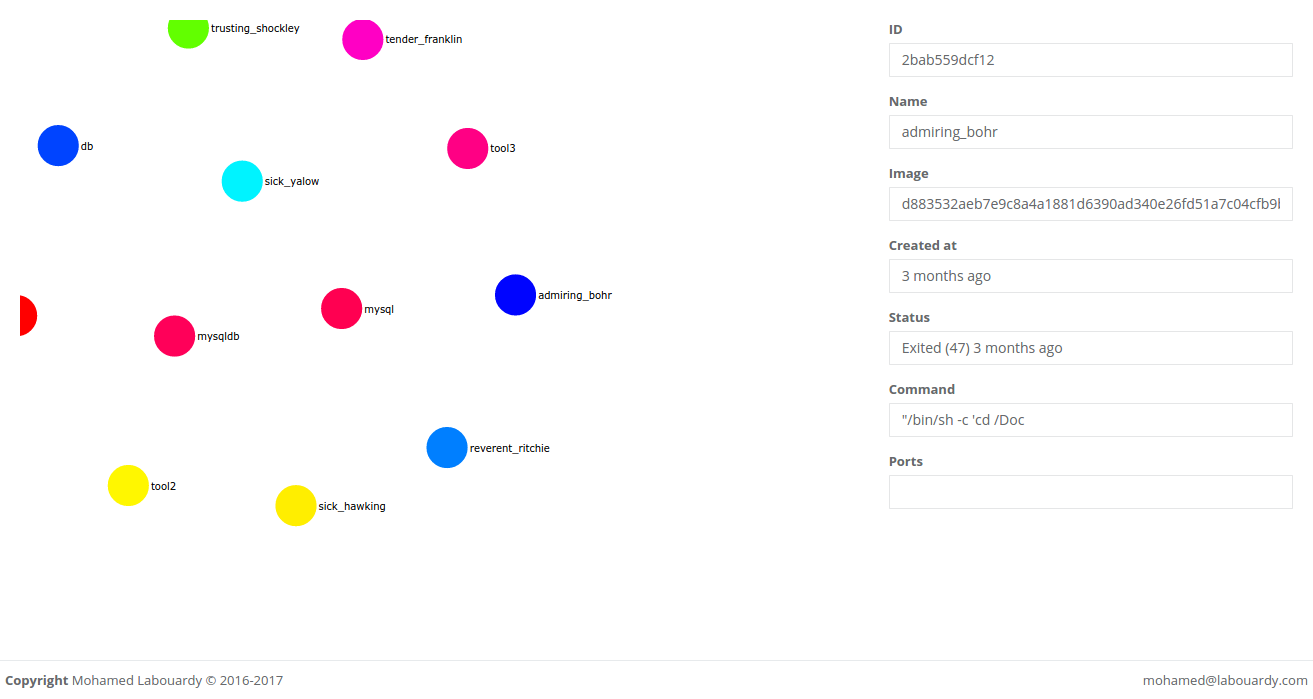
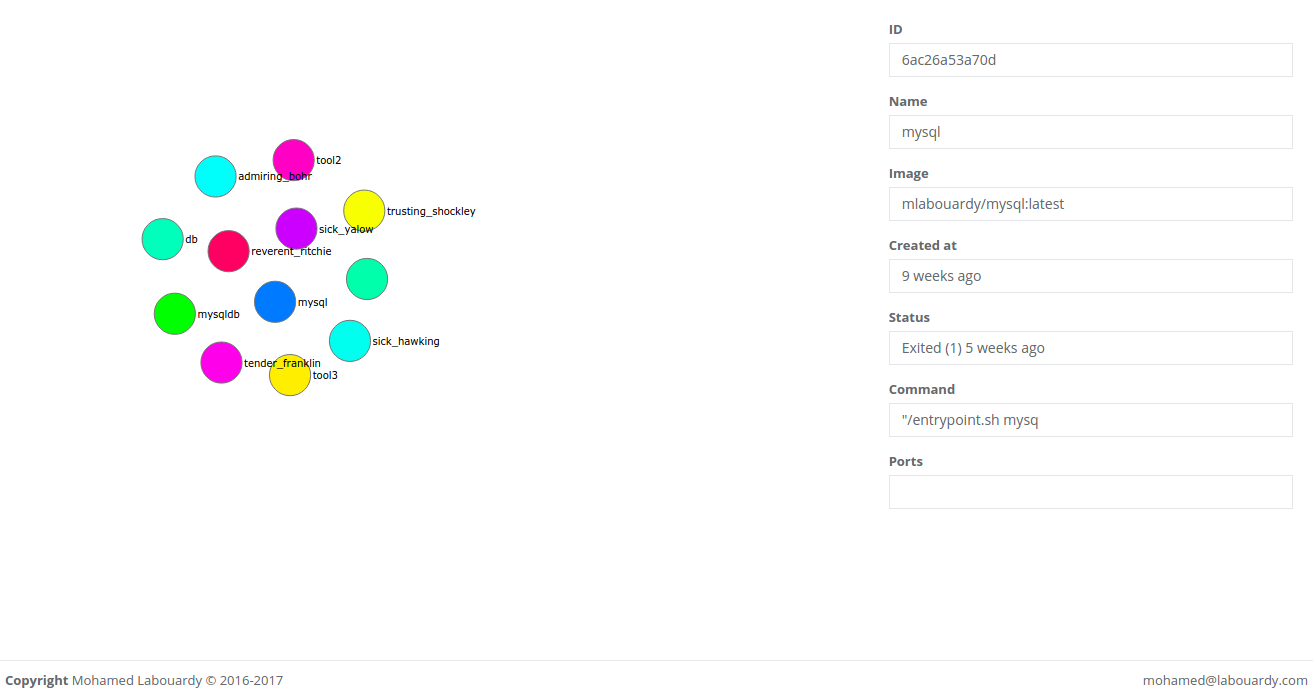
fix graph gravity and charge

diff --git a/public/scripts/app.js b/public/scripts/app.js
@@ -1,113 +1,108 @@
 angular.module('myApp',[])
-  .controller('MainCtrl',function($scope, Docker){
-    $scope.container={};
-    $scope.containers=[];
+.controller('MainCtrl',function($scope, Docker){
+  $scope.container={};
+  $scope.containers=[];
 
-    Docker.exited().then(function(containers){
-      containers=containers.data;
-      var arr = [];
-      for (var prop in containers) {
-          arr.push(containers[prop]);
-      }
-      $scope.data={
-        nodes:arr,
-        links:[]
-      };
+  Docker.exited().then(function(containers){
+    containers=containers.data;
+    var arr = [];
+    for (var prop in containers) {
+      arr.push(containers[prop]);
+    }
+    $scope.data={
+      nodes:arr,
+      links:[]
+    };
 
-      var graph=$scope.data;
+    var graph=$scope.data;
 
-      var width = 500;
-          height = 500;
+    var width = 500;
+    height = 500;
 
-      var force = d3.layout.force()
-          .charge( function(d) { return -35 * Math.sqrt(1695)} )
-          .linkDistance(10)
-          .gravity(0.15)
-          .size([width, height]);
+    var force = d3.layout.force()
+    .charge(-180)
+    .linkDistance(30)
+    .size([width, height]);
 
-      var svg = d3.select("#canvas").append("svg")
-          .attr("width", "100%")
-          .attr("height", "100%");
+    var svg = d3.select("#canvas").append("svg")
+    .attr("width", "100%")
+    .attr("height", "100%");
 
-          var main = svg.append("g")
-           .attr("class", "graph");
+    var main = svg.append("g")
+    .attr("class", "graph");
 
-          force
-              .nodes(graph.nodes)
-              .links(graph.links)
-              .start();
+    force
+    .nodes(graph.nodes)
+    .links(graph.links)
+    .start();
 
-          var link = main.selectAll(".link")
-              .data(graph.links)
-              .enter().append("line")
-              .attr("class", "link")
-              .style("stroke-width", function(d) { return 2 * d.strength; });
+    var link = main.selectAll(".link")
+    .data(graph.links)
+    .enter().append("line")
+    .attr("class", "link")
+    .style("stroke-width", function(d) { return 2 * d.strength; });
 
-          var node = main.selectAll(".node_circle")
-              .data(graph.nodes)
-            .enter().append("circle")
-              .attr("class", "node_circle")
-              .attr("r", function(d) { return 0.5 * Math.sqrt(1695); })
-              .style("fill", function(d){ return "hsl(" + Math.random() * 360 + ",100%,50%)"; } )
-              .on("mouseover", function(d) { mouseover_node(d); })
-              .on("mouseout", function(d) { mouseout_node(d) })
-              .call(force.drag);
+    var node = main.selectAll(".node_circle")
+    .data(graph.nodes)
+    .enter().append("circle")
+    .attr("class", "node_circle")
+    .attr("r", function(d) { return 0.5 * Math.sqrt(1695); })
+    .style("fill", function(d){ return "hsl(" + Math.random() * 360 + ",100%,50%)"; } )
+    .on("mouseover", function(d) { mouseover_node(d); })
+    .on("mouseout", function(d) { mouseout_node(d) })
+    .call(force.drag);
 
-          var label = main.selectAll(".node_label")
-              .data(graph.nodes)
-            .enter().append("text")
-              .attr("class", "node_label")
-              .attr("dx", function(d) { return 2 + 0.5 * Math.sqrt(1695); })
-              .attr("dy", ".4em")
-              .attr("font-family", "Verdana")
-              .attr("font-size", 10)
-              .style("fill", "#000000")
-              .text(function(d) { return d.names; });
+    var label = main.selectAll(".node_label")
+    .data(graph.nodes)
+    .enter().append("text")
+    .attr("class", "node_label")
+    .attr("dx", function(d) { return 2 + 0.5 * Math.sqrt(1695); })
+    .attr("dy", ".4em")
+    .attr("font-family", "Verdana")
+    .attr("font-size", 10)
+    .style("fill", "#000000")
+    .text(function(d) { return d.names; });
 
-          force.on("tick", function() {
-            link.attr("x1", function(d) { return d.source.x; })
-                .attr("y1", function(d) { return d.source.y; })
-                .attr("x2", function(d) { return d.target.x; })
-                .attr("y2", function(d) { return d.target.y; });
+    force.on("tick", function() {
+      link.attr("x1", function(d) { return d.source.x; })
+      .attr("y1", function(d) { return d.source.y; })
+      .attr("x2", function(d) { return d.target.x; })
+      .attr("y2", function(d) { return d.target.y; });
 
-            // node
-            //   .attr("transform", function(d) { return "translate(" + d.x + "," + d.y + ")"; });
-            node.attr("cx", function(d) { return d.x; })
-                .attr("cy", function(d) { return d.y; });
+      node.attr("cx", function(d) { return d.x; })
+      .attr("cy", function(d) { return d.y; });
 
-            label.attr("x", function(d) { return d.x; })
-                .attr("y", function(d) { return d.y; });
-          });
-
-          var mouseover_node = function(z){
-            $scope.$apply(function(){
-              $scope.container={
-                id:z.id,
-                name:z.names,
-                created_at:z.created,
-                ports:z.ports,
-                image:z.image,
-                command:z.command,
-                status:z.status
-              }
-            })
-
-            console.log(z);
-          };
-
-          var mouseout_node = function(z){
-            link
-              .style("stroke-opacity", 0.2);
-
-            node
-              .style("stroke-width", 1)
-
-            label
-              .attr("font-size", 10)
-              .style("fill-opacity", 1)
-
-          };
+      label.attr("x", function(d) { return d.x; })
+      .attr("y", function(d) { return d.y; });
     });
 
+    var mouseover_node = function(z){
+      $scope.$apply(function(){
+        $scope.container={
+          id:z.id,
+          name:z.names,
+          created_at:z.created,
+          ports:z.ports,
+          image:z.image,
+          command:z.command,
+          status:z.status
+        }
+      })
+    };
 
+    var mouseout_node = function(z){
+      link
+      .style("stroke-opacity", 0.2);
+
+      node
+      .style("stroke-width", 1)
+
+      label
+      .attr("font-size", 10)
+      .style("fill-opacity", 1)
+
+    };
   });
+
+
+});
